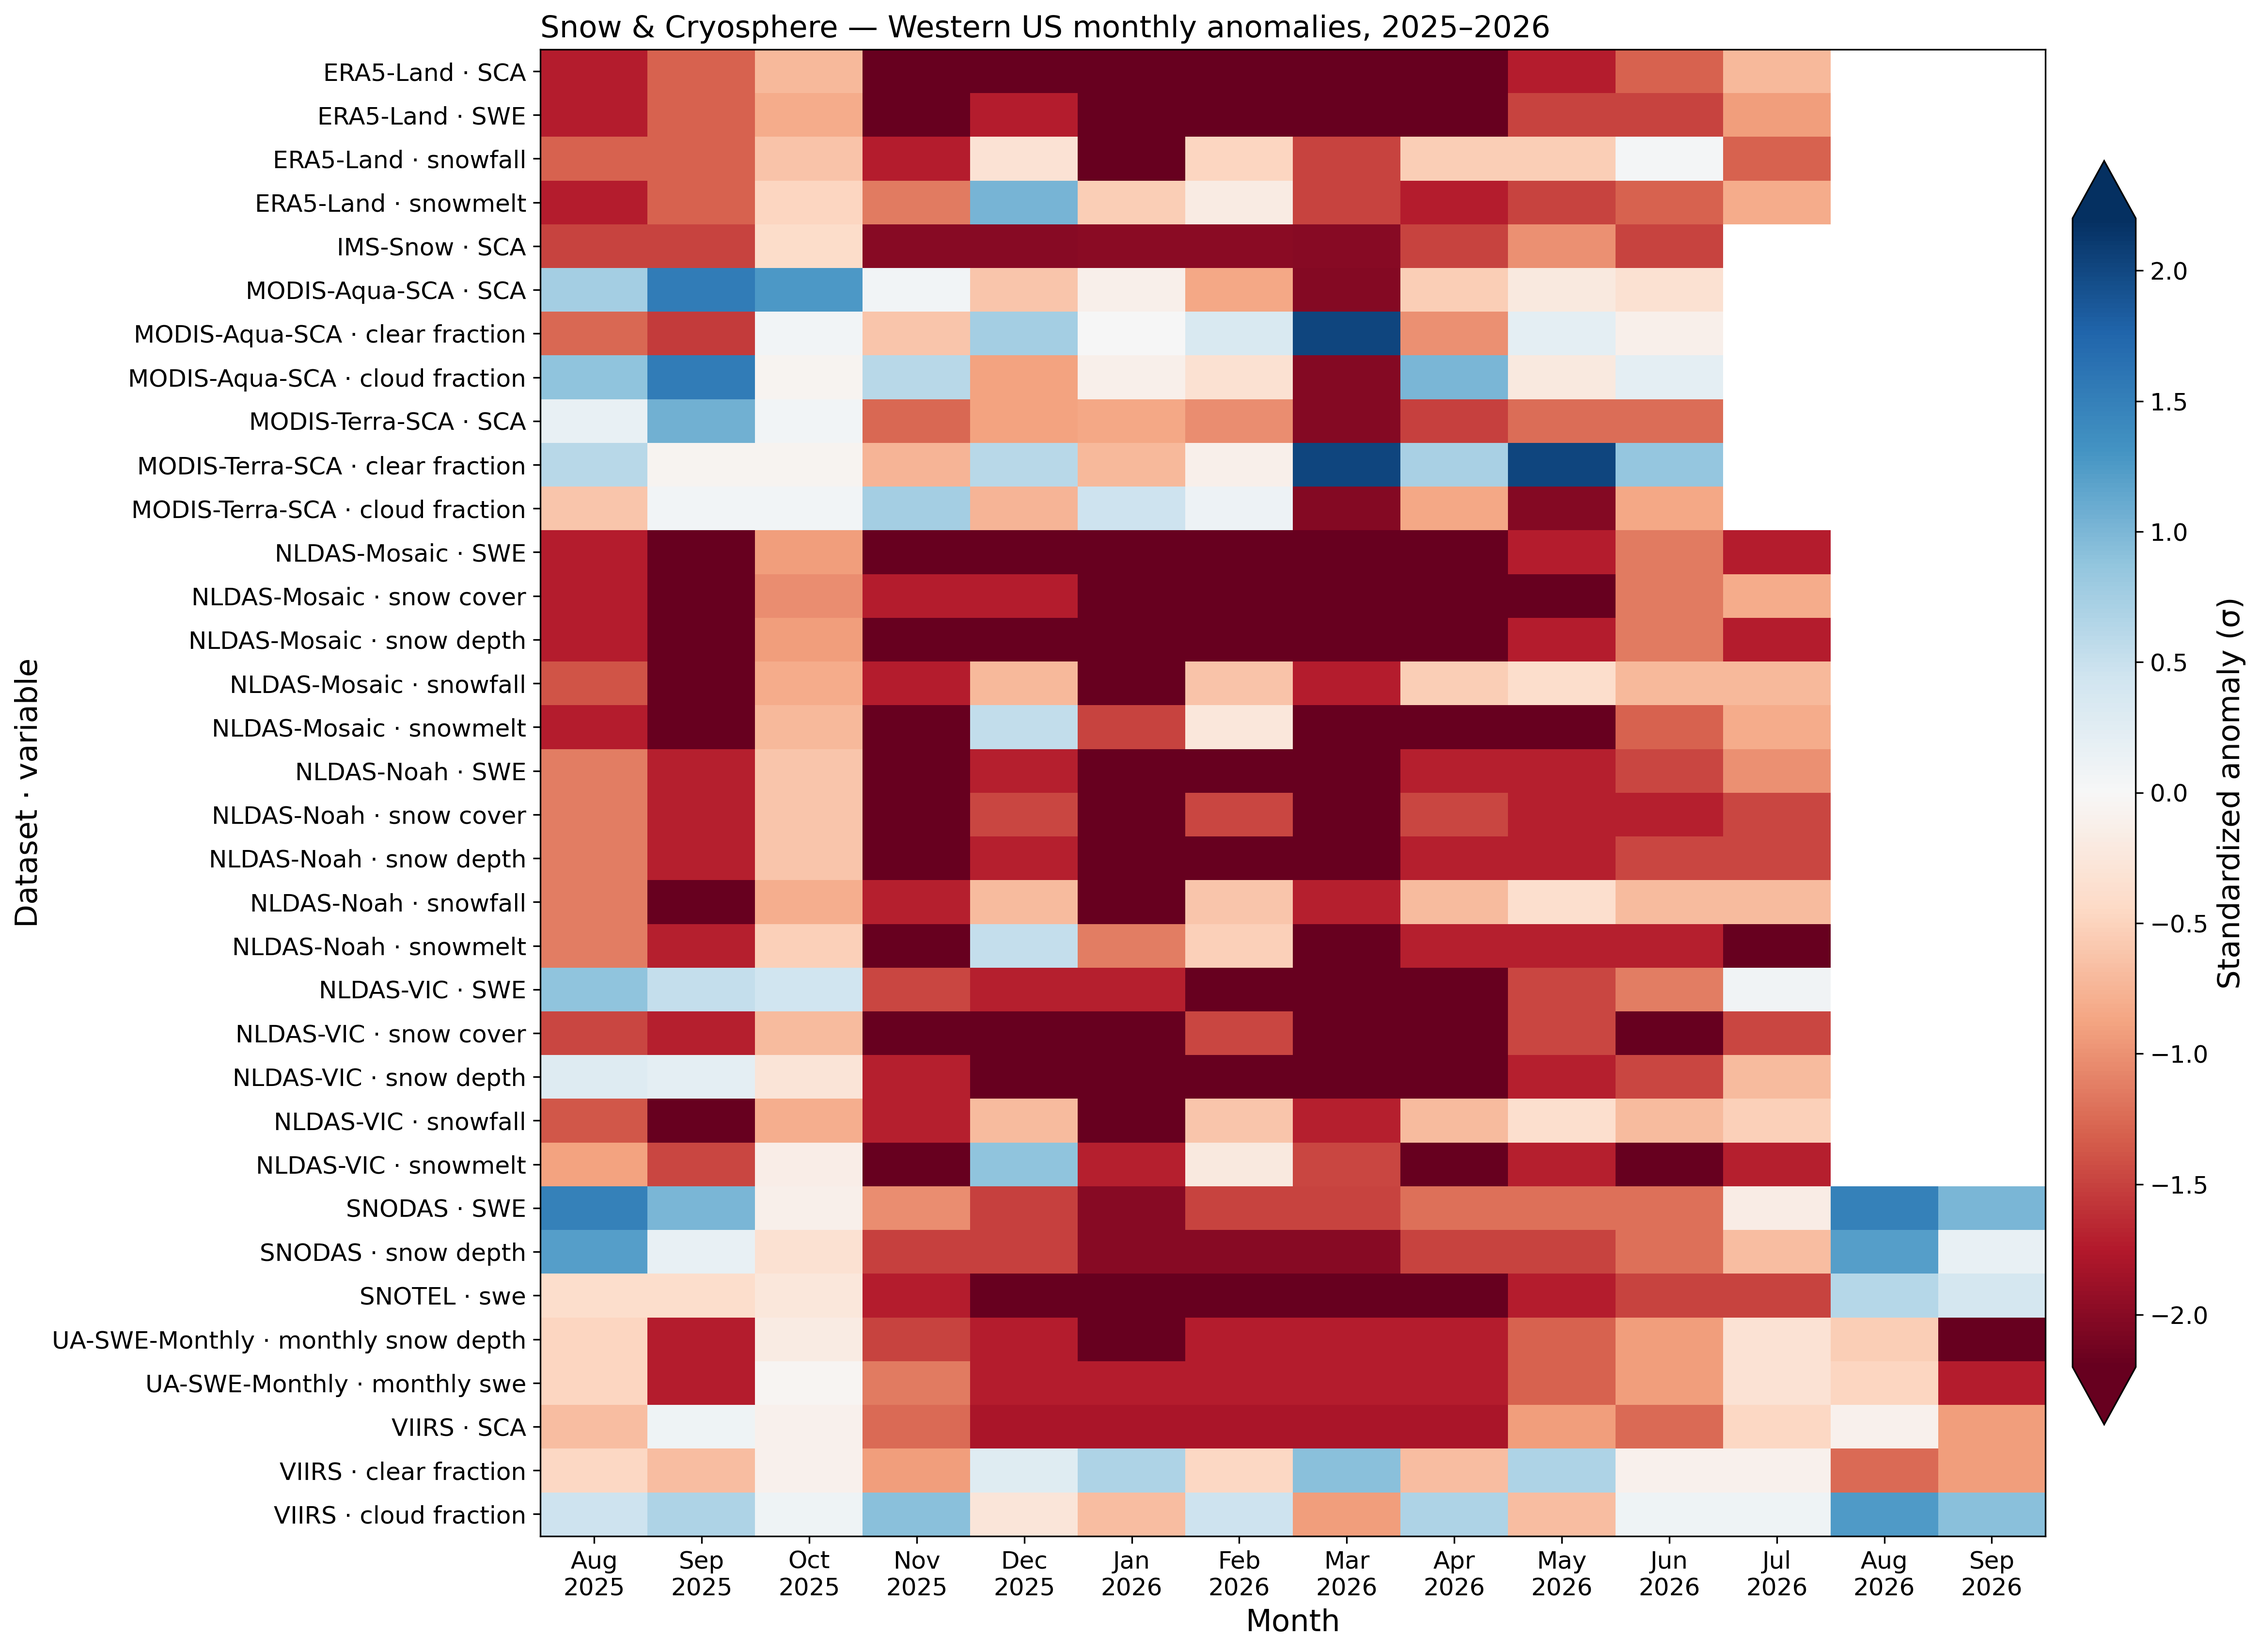
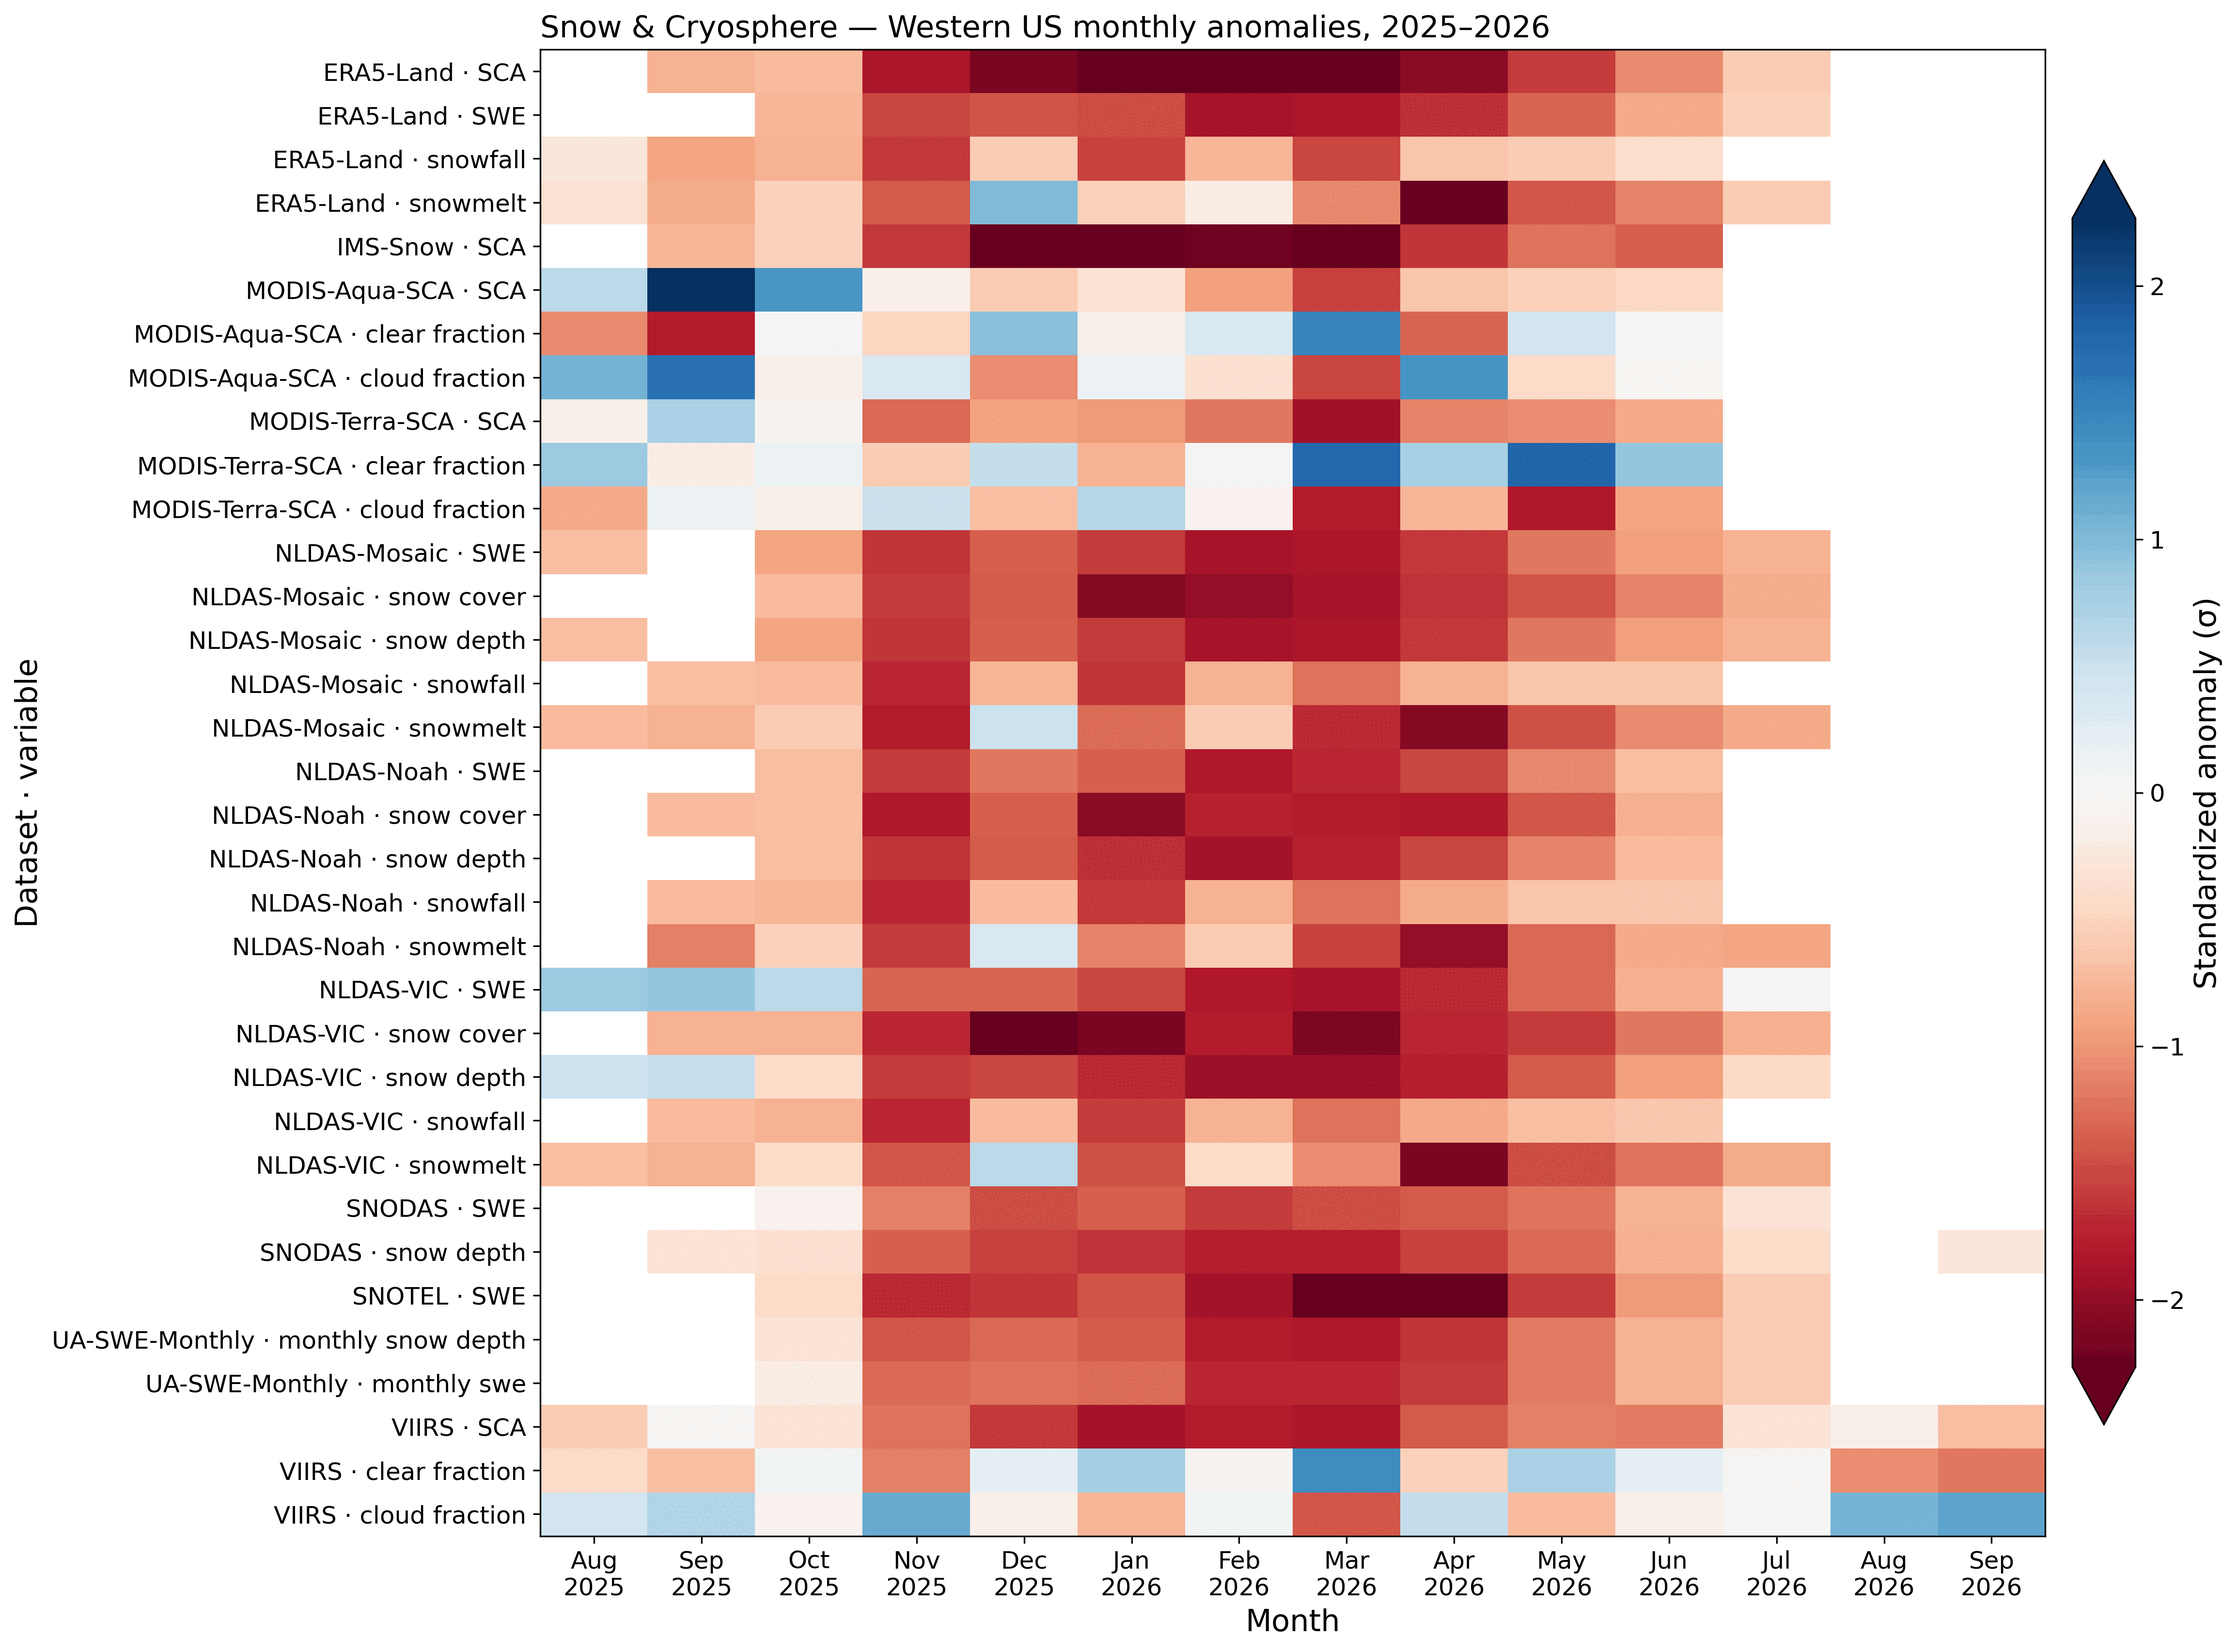
Standardized-anomaly overhaul + drop SMOS VWC + SiB4 pie legend
- sigma is now a classic per-calendar-month z-score (replaces the rank-based normal score). No-data floors where the baseline can't support a sigma: zero-spread/dormant months, off-season months (interannual SD tiny vs the seasonal amplitude), and a minimum-8-baseline-years reliability floor so short records (SMAP/TROPOMI/OCO-2) stop reporting spurious 5-7 sigma. Heatmap color range fixed at +/-4 with true values on hover.
- Drop SMOS VWC entirely (pervasively pinned/near-constant retrieval over the semi-arid West); GLEAM clipped to 1990+ (drops the 1980s model spin-up).
- SiB4 PFT land cover: pie now beside a 2-column HTML legend (each share in the legend), on-pie number only for wedges >=4%.
- Regenerate heatmap + synthesis figures.

diff --git a/js/common.js b/js/common.js
@@ -60,7 +60,6 @@ const VARIABLE_FULL_NAME = {
   RECO: "ecosystem respiration", RH: "heterotrophic respiration",
   LAND_CARBON_EXCHANGE: "net land-atmosphere CO2 flux, incl. fire",
   VOD: "vegetation optical depth", VOD_AM: "vegetation optical depth (AM)", VOD_PM: "vegetation optical depth (PM)",
-  VWC_AM: "vegetation water content (AM)", VWC_PM: "vegetation water content (PM)",
   // fire
   BI: "burning index", ERC: "energy release component", FM100: "100-hour fuel moisture",
   FM1000: "1000-hour fuel moisture", BURNED_AREA: "burned area", CARBON_EMISSIONS: "fire carbon emissions",
@@ -126,6 +125,19 @@ function categoryLabelWithIcon(category) {
 // the JSON in the first place; this one floors the narrower display window
 // applied on top of that already-exported data. Not a bug if they diverge;
 // would be a bug if this one ever floored BELOW 1979 (data that doesn't exist).
+// A window whose baseline spread is below this fraction of the series' overall
+// anomaly spread is climatologically dormant/absent (e.g. summer snow) and
+// reads as no-data for z-score, matching the pipeline
+// (common/detrend.py::DORMANT_SD_FRACTION). Genuine extremes against a
+// real-variance baseline are untouched and keep their full, uncapped z.
+const DORMANT_SD_FRACTION = 0.02;
+// Off-season dormancy floor: a window whose baseline anomaly spread is below
+// this fraction of the variable's seasonal amplitude (the spread of its 12
+// climatological monthly raw means) is off-season/dormant for that quantity
+// (e.g. summer snowpack, winter photosynthesis) and reads as no-data, matching
+// the pipeline (common/detrend.py::SEASONAL_DORMANT_FRACTION). A spread-vs-
+// spread ratio, so temperature (K or C) is never flagged.
+const SEASONAL_DORMANT_FRACTION = 0.03;
 const DASHBOARD_MIN_YEAR = 1990;
 
 // Western US water year: Oct 1 - Sep 30, named for the calendar year it ends
@@ -291,6 +303,13 @@ function nativeIndexPercentile(sigma) {
 
 // Mirrors common/detrend.py's MIN_BASELINE_YEARS -- must stay in sync.
 const MIN_BASELINE_YEARS = 3;
+// Mirrors common/detrend.py's MIN_BASELINE_YEARS_SIGMA: a z-score from fewer
+// than this many baseline years has an unreliable (under-estimated) SD, so a
+// modest departure reads as a spurious 5-7 sigma -- short satellite records
+// (SMAP, TROPOMI, OCO-2) would otherwise light up the summary table with
+// impossible outliers. Below it, sigma reads as no-data; percentile and rank
+// (robust to small samples) are still shown.
+const MIN_BASELINE_YEARS_SIGMA = 8;
 
 function windowMonthYearPairs(windowKey, targetYear) {
   const months = SEASON_MONTHS[windowKey] || [parseInt(windowKey, 10)];
@@ -397,8 +416,34 @@ function computeWindowValue(data, region, windowKey, targetYear) {
   // SCA = 0 every year) can't be put in SD units, so a matching target reads 0
   // and a departing one is left out (null).
   const { mean: meanAnom, std: stdAnom } = meanStd(baselineAnomalies);
-  const sigma = stdAnom < 1e-9
-    ? (Math.abs(targetAnomaly - meanAnom) < 1e-9 ? 0 : null)
+  // Dormant/absent window -- baseline spread negligible vs the series' overall
+  // anomaly spread (e.g. summer snow) -- has no climatology to standardize
+  // against, so it reads as no-data, matching the pipeline
+  // (common/detrend.py::DORMANT_SD_FRACTION). A genuine extreme against a
+  // real-variance baseline keeps its full, uncapped z.
+  const allAnoms = region.anomaly.filter((a) => a !== null && Number.isFinite(a));
+  const overallAnomStd = allAnoms.length > 1 ? meanStd(allAnoms).std : 0;
+  // Seasonal amplitude = spread of the 12 climatological monthly raw means; a
+  // window whose baseline anomaly spread is a tiny fraction of it is
+  // off-season/dormant (common/detrend.py::SEASONAL_DORMANT_FRACTION).
+  const monthlyMeans = [];
+  for (let m = 1; m <= 12; m++) {
+    const monthVals = [];
+    for (let i = 0; i < region.dates.length; i++) {
+      const y = parseInt(region.dates[i].slice(0, 4), 10);
+      const mo = parseInt(region.dates[i].slice(5, 7), 10);
+      const v = region.value[i];
+      if (mo === m && y >= region.baseline_start_year && y <= region.baseline_end_year
+          && v !== null && Number.isFinite(v)) monthVals.push(v);
+    }
+    if (monthVals.length) monthlyMeans.push(meanStd(monthVals).mean);
+  }
+  const seasonalScale = monthlyMeans.length > 1 ? meanStd(monthlyMeans).std : 0;
+  const seasonalFloor = SEASONAL_DORMANT_FRACTION * seasonalScale;
+  const sigma = (baselineAnomalies.length < MIN_BASELINE_YEARS_SIGMA
+                 || stdAnom <= DORMANT_SD_FRACTION * overallAnomStd
+                 || (seasonalFloor > 0 && stdAnom < seasonalFloor))
+    ? null
     : (targetAnomaly - meanAnom) / stdAnom;
 
   // The displayed "rank on record" badge is a separate statistic from sigma:

diff --git a/js/sib4.js b/js/sib4.js
@@ -100,26 +100,40 @@ async function renderComposition() {
   // circle, so with DBG out the shares are of VEGETATED cover rather than of
   // total land -- the note below the chart says which.
   const codes = sib4State.excludeDBG ? region.pft_order.filter((c) => c !== "dbg") : region.pft_order;
+  const pct = codes.map((code) => region.pft[code].area_fraction * 100);
+  // Plotly's own legend can't do a fixed 2-column layout and its long,
+  // near-duplicate PFT names run off-screen, so the pie carries no built-in
+  // legend -- a custom 2-column HTML legend (below) sits beside it.
   const trace = {
     type: "pie", sort: false, direction: "clockwise",
-    labels: codes.map((code) => pftLabel(code)),
-    values: codes.map((code) => region.pft[code].area_fraction * 100),
+    labels: codes.map((code, i) => `${pftLabel(code)} — ${pct[i].toFixed(1)}%`),
+    values: pct,
     marker: { colors: codes.map((code) => pftFillColor(code)), line: { color: "#fff", width: 1 } },
-    textinfo: "percent", textfont: { size: 12 },
-    hovertemplate: "%{label}: %{percent}<extra></extra>",
+    // Only wedges >=4% get an on-pie number; smaller ones would stack into an
+    // unreadable fan at the top. Every share is in the HTML legend regardless.
+    text: pct.map((v) => (v >= 4 ? `${v.toFixed(1)}%` : "")),
+    textinfo: "text", textposition: "inside", insidetextorientation: "horizontal",
+    textfont: { size: 12 },
+    hovertemplate: "%{label}<extra></extra>",
   };
-  // On a phone the ~19-entry legend needs the full width below the pie; on
-  // desktop it sits to the right.
-  const isNarrow = window.innerWidth < 600;
-  el.style.height = isNarrow ? "480px" : "360px";
+  el.style.height = "340px";
   Plotly.newPlot(el, [trace], {
-    showlegend: true,
-    legend: isNarrow
-      ? { orientation: "h", x: 0.5, xanchor: "center", y: -0.05, yanchor: "top", font: { size: 12 } }
-      : { orientation: "v", x: 1.02, xanchor: "left", y: 0.5, yanchor: "middle", font: { size: 12 } },
-    margin: { t: 6, r: isNarrow ? 12 : 8, b: isNarrow ? 150 : 12, l: 12 },
+    showlegend: false,
+    margin: { t: 6, r: 6, b: 6, l: 6 },
     ...PLOTLY_BASE,
   }, { displaylogo: false, responsive: true });
+  const legendEl = document.getElementById("sib4-composition-legend");
+  legendEl.innerHTML = "";
+  codes.forEach((code, i) => {
+    const item = document.createElement("div");
+    item.className = "sib4-pie-legend-item";
+    const sw = document.createElement("span");
+    sw.className = "sib4-pie-legend-swatch";
+    sw.style.background = pftFillColor(code);
+    item.appendChild(sw);
+    item.appendChild(document.createTextNode(`${pftLabel(code)} — ${pct[i].toFixed(1)}%`));
+    legendEl.appendChild(item);
+  });
   const note = document.getElementById("sib4-composition-note");
   if (note) note.textContent = sib4State.excludeDBG
     ? "Shares are of vegetated cover (Desert & Bare Ground excluded)."

diff --git a/css/style.css b/css/style.css
@@ -1108,6 +1108,16 @@ table.headline-table tr.group-row td {
 .sib4-pft-checks .compare-legend-item { font-size: 0.88rem; }
 .ol-period-group#sib4-limitation-factors, #sib4-limitation-factors { display: inline-flex; flex-wrap: wrap; }
 
+/* PFT land-cover pie: a fixed-size pie beside a 2-column HTML legend (Plotly's
+   own legend can't do a fixed 2-column layout and its long PFT names run off
+   the plot). Wraps to pie-above-legend on narrow screens. */
+.sib4-composition-layout { display: flex; flex-wrap: wrap; gap: 1rem 1.5rem; align-items: center; margin-top: 0.5rem; }
+.sib4-composition-layout #sib4-composition { flex: 0 0 340px; max-width: 100%; }
+.sib4-pie-legend { flex: 1 1 360px; display: grid; grid-template-columns: 1fr 1fr; gap: 0.3rem 1.2rem; align-content: center; }
+.sib4-pie-legend-item { display: flex; align-items: center; gap: 0.4rem; font-size: 0.85rem; line-height: 1.25; }
+.sib4-pie-legend-swatch { width: 0.9em; height: 0.9em; border-radius: 2px; flex-shrink: 0; }
+@media (max-width: 560px) { .sib4-pie-legend { grid-template-columns: 1fr; } }
+
 /* Horizontal year scrubber in the map's year control: drag across the record
    to step through the years that have a COG (indices into availableYears). */
 .ol-year-slider-wrap { flex: 1 1 auto; min-width: 0; }

diff --git a/js/heatmaps.js b/js/heatmaps.js
@@ -252,10 +252,14 @@ async function renderHeatmapUnsafe(chart, pairs) {
     return;
   }
 
-  // Symmetric diverging range so 0 sits dead-center (white) and the two ends
-  // are equal-magnitude; the colorbar ends are then labeled by direction.
-  const finite = z.flat().filter((v) => Number.isFinite(v));
-  const zAbs = finite.length ? Math.max(...finite.map((v) => Math.abs(v))) : 1;
+  // Fixed symmetric diverging range (not auto-scaled to the matrix max): a
+  // cell's color then means the same z-score on every heatmap, and one genuine
+  // extreme -- a real fire or soil-moisture record can run past +/-10 -- no
+  // longer stretches the scale and washes every other cell to white. Values
+  // beyond the bound saturate the end color; the true z is in the hover. (A
+  // dormant/degenerate cell is no-data, not a spike -- see
+  // common.js::DORMANT_SD_FRACTION.)
+  const zAbs = 4;
 
   // In the combined "all products" view, separate the stacked category groups
   // with a black rule and label each section (rotated) on the right.

diff --git a/sib4.html b/sib4.html
@@ -65,7 +65,10 @@
       <h3 class="figure-title" id="sib4-composition-title"></h3>
       <p class="finding-note">Land cover is fixed in time; bare ground carries no carbon flux.</p>
       <button type="button" id="sib4-exclude-dbg">Exclude Desert &amp; Bare Ground (DBG)</button>
-      <div id="sib4-composition" style="height:360px;"></div>
+      <div class="sib4-composition-layout">
+        <div id="sib4-composition"></div>
+        <div id="sib4-composition-legend" class="sib4-pie-legend"></div>
+      </div>
       <p id="sib4-composition-note" class="value-glossary"></p>
     </div>
 
